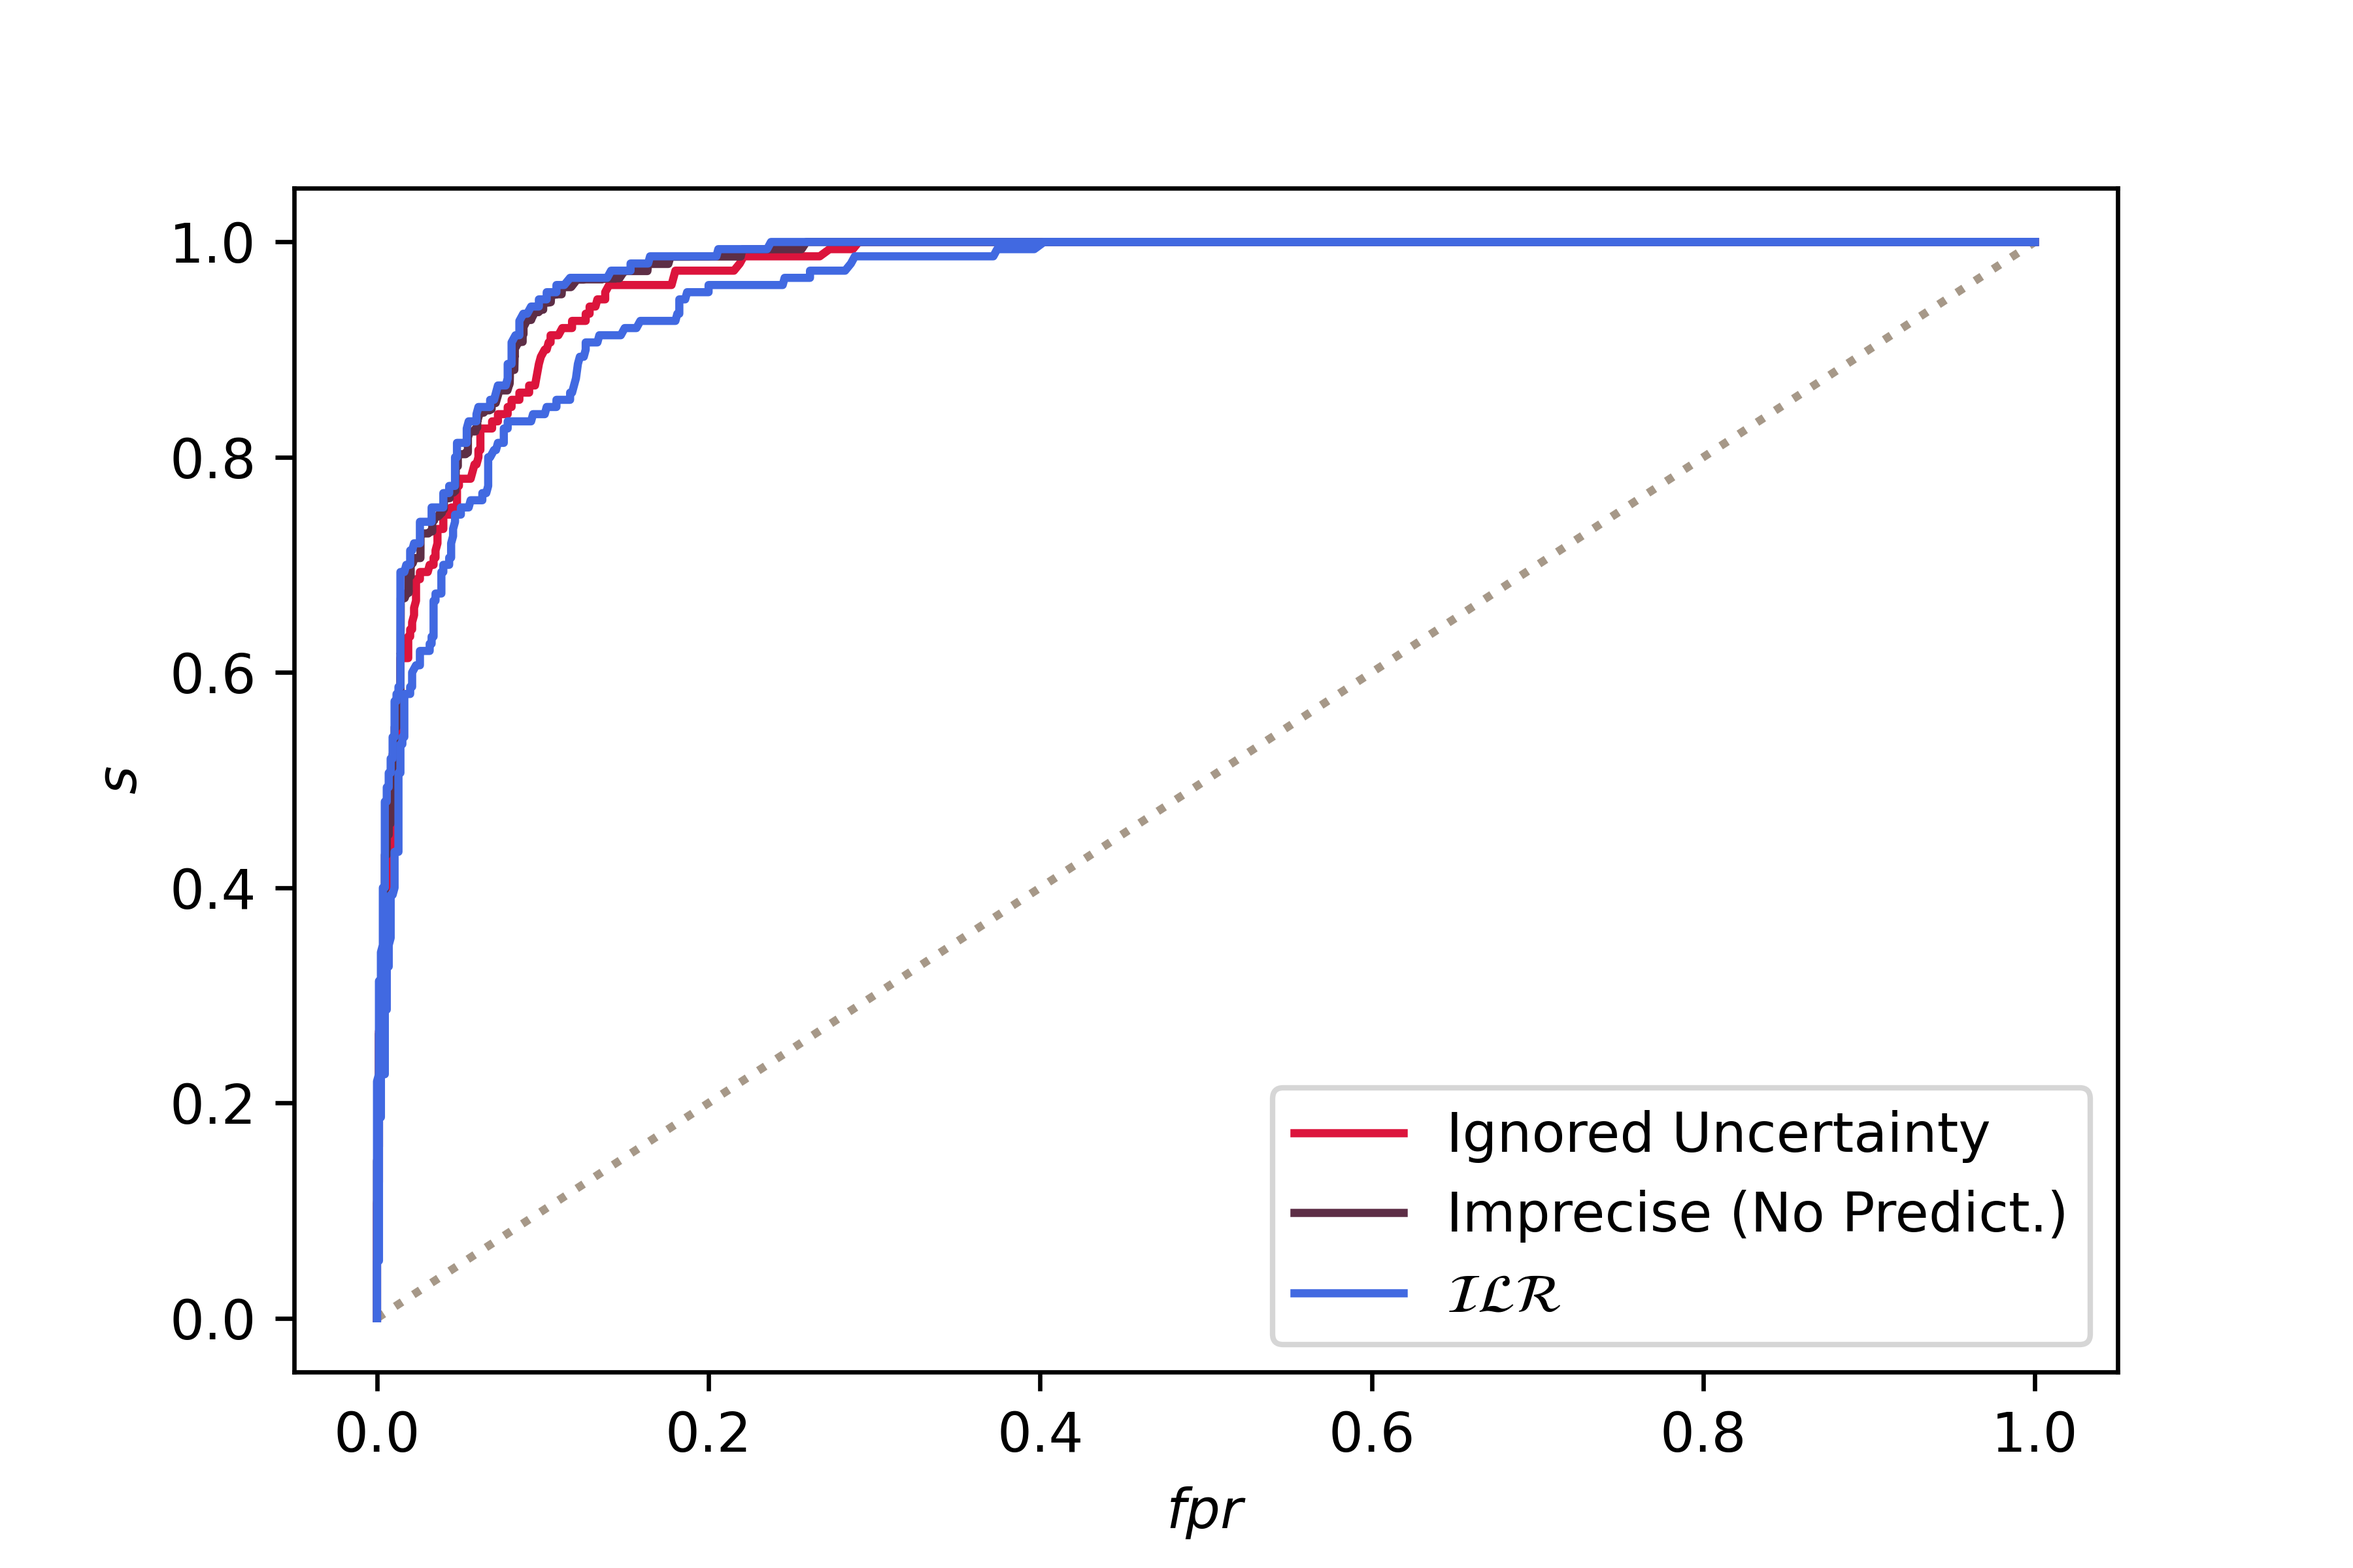
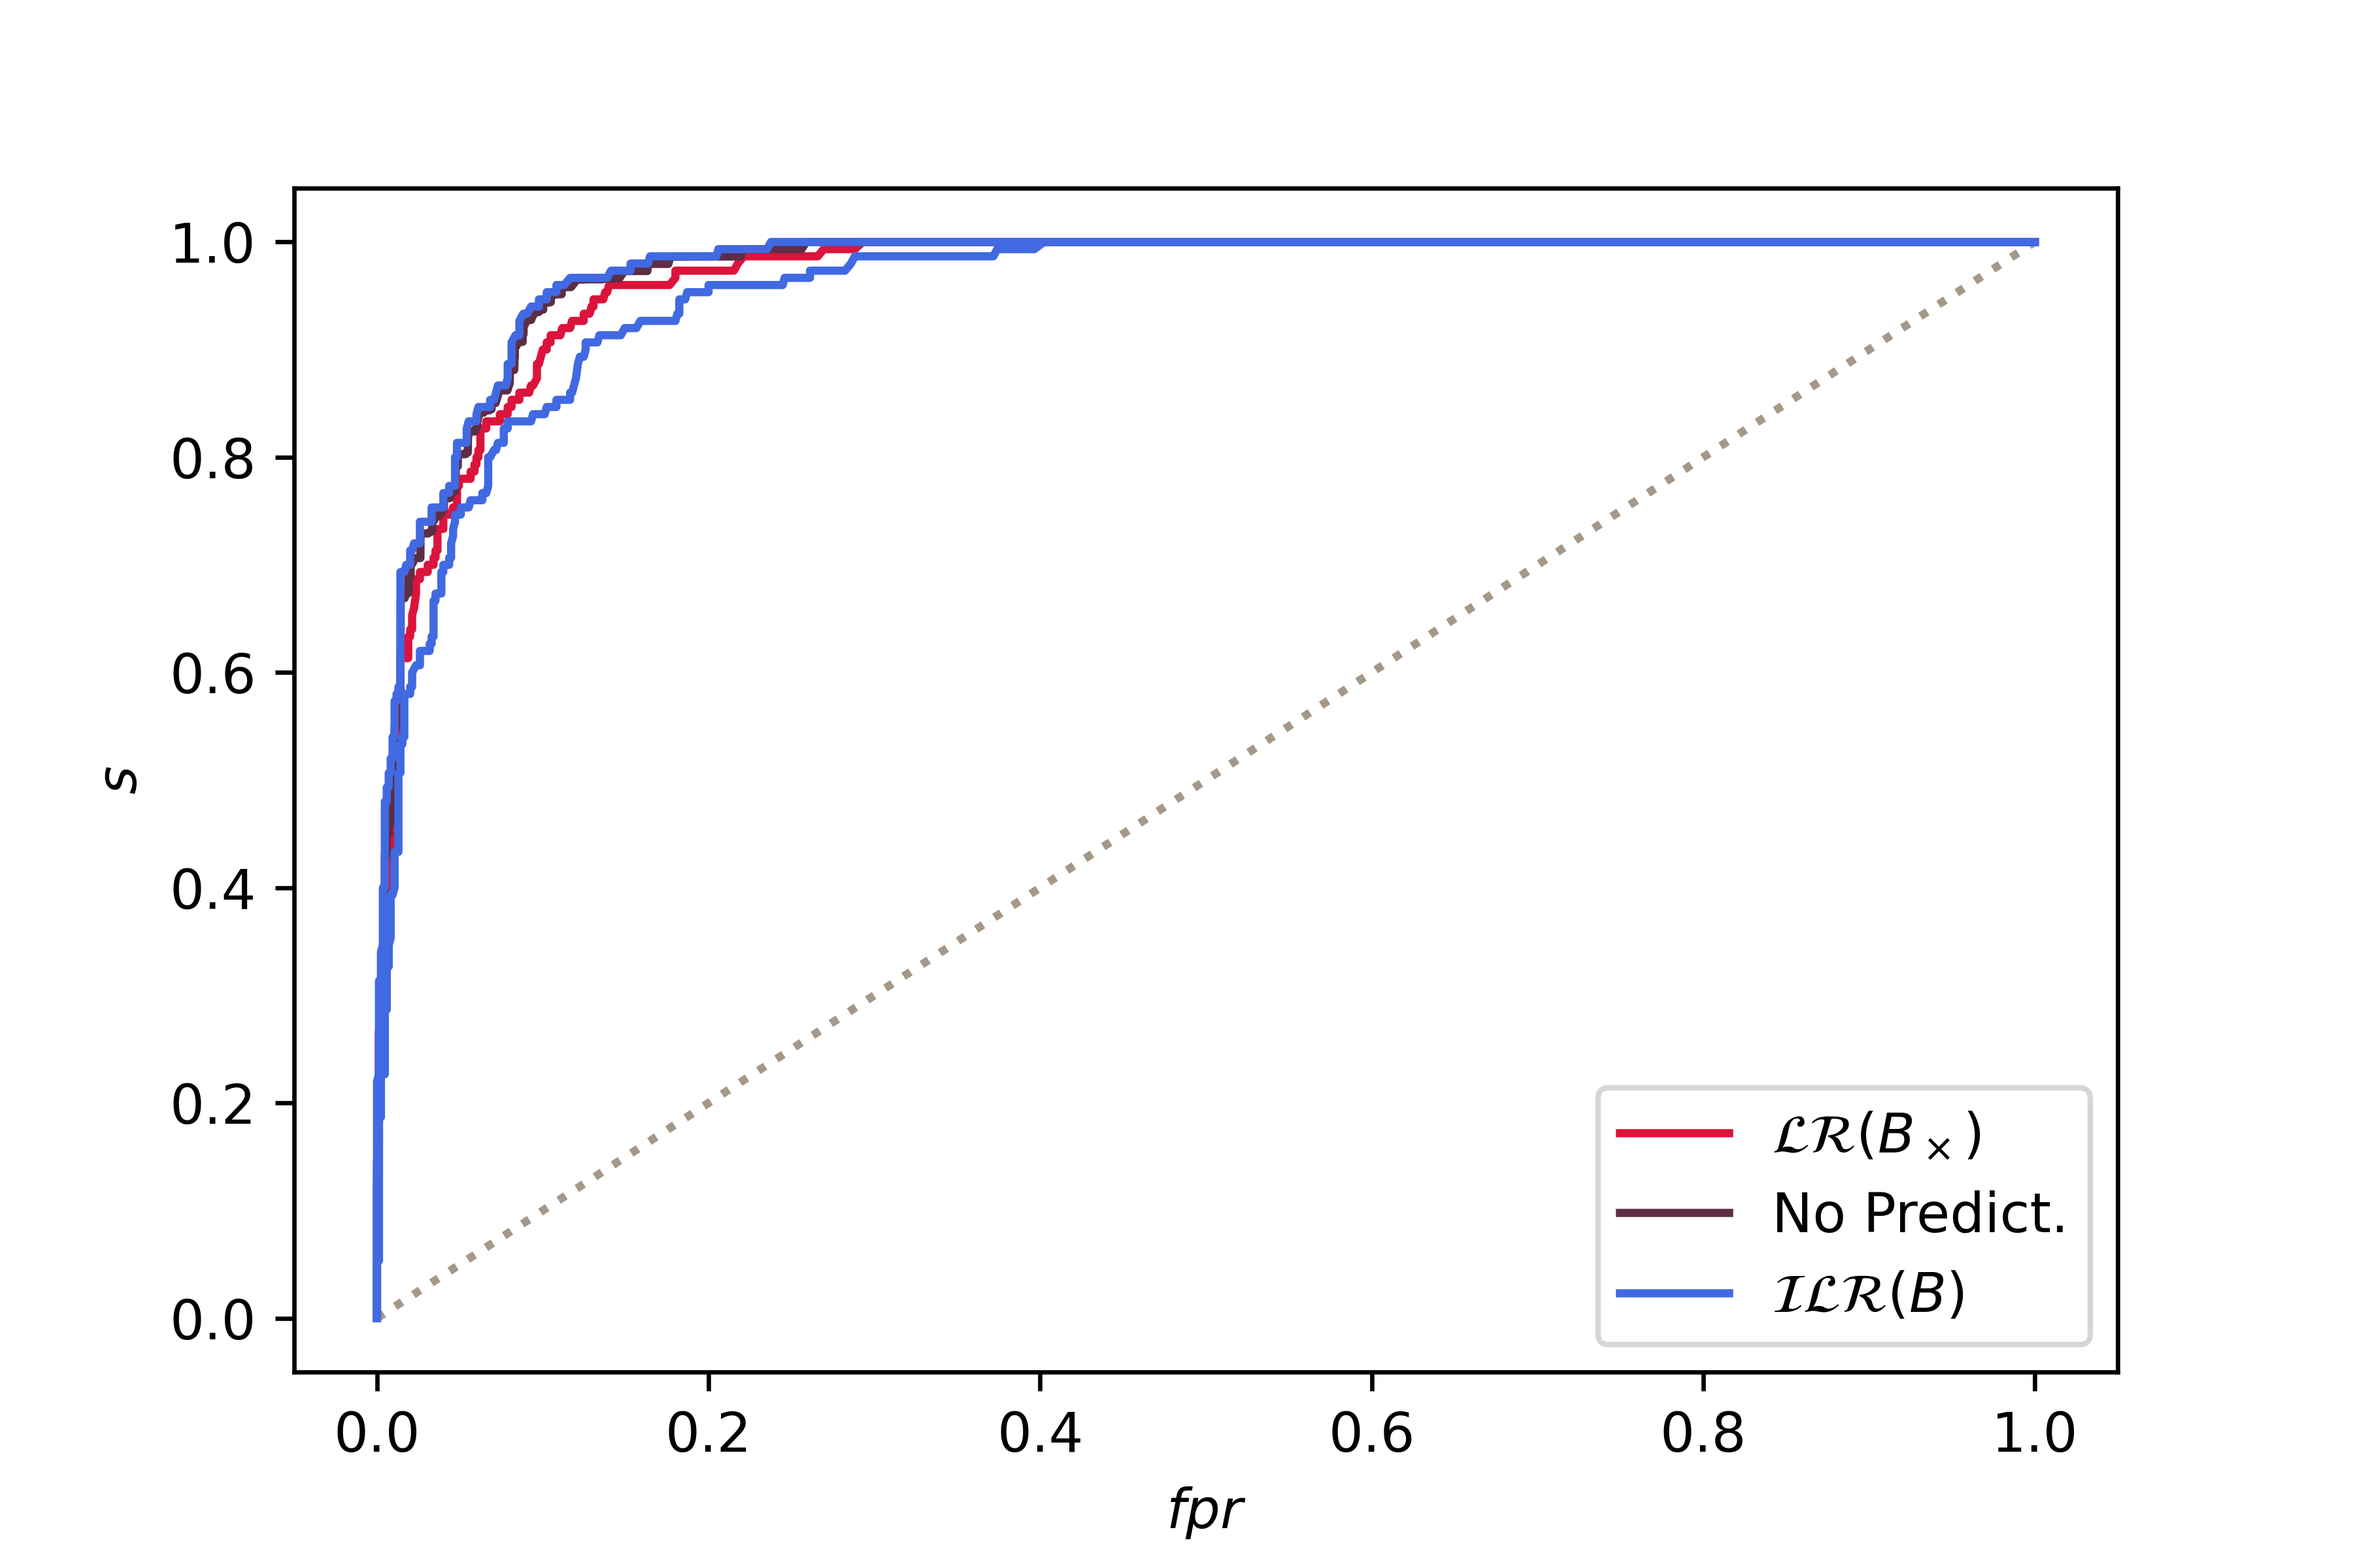
25MAY

Changed region(s): [[0.5289, 0.6875, 0.8711, 0.875]]

diff --git a/burn1000.py b/burn1000.py
@@ -203,8 +203,8 @@ axroc.plot([0,1],[0,1],linestyle = ':',color=col_points)
 
 axroc.set(xlabel = '$fpr$',ylabel='$s$')
 # axroc.plot(fpr,s,'k',label = 'Base')
-axroc.plot(nuq_fpr,nuq_s,color=col_mid,label='Ignored Uncertainty')
-axroc.plot(fpr_t,s_t,color=col_ilr2,label='Imprecise (No Predict.)')
+axroc.plot(nuq_fpr,nuq_s,color=col_mid,label='$\mathcal{LR}(B_\\times)$')
+axroc.plot(fpr_t,s_t,color=col_ilr2,label='No Predict.')
 
 
 xl = []
@@ -226,21 +226,26 @@ for i,j in zip(fpr_i,s_i):
 
 # axroc.plot(fpr_l,s_l,color=col_ilr2,label='Lower Bound')
 # axroc.plot(fpr_r,s_r,color=col_ilr3,label='Upper Bound')
-axroc.plot(xl,yu, col_ilr,label = '$\mathcal{ILR}$')
+axroc.plot(xl,yu, col_ilr,label = '$\mathcal{ILR}(B)$')
 axroc.plot(xu,yl, col_ilr )
 axroc.legend()
 rocfig.savefig('figs/burn1000_ROC.png',dpi = 600)
 rocfig.savefig('../LR-paper/figs/burn1000_ROC.png',dpi = 600)
+
+axroc.set_xlim([0,0.3])
+axroc.set_ylim([0.6,1])
+rocfig.savefig('figs/burn1000_ROC_zoom.png',dpi = 600)
+rocfig.savefig('../LR-paper/figs/burn1000_ROC_zoom.png',dpi = 600)
+
 densfig.savefig('figs/burn1000_dens.png',dpi =600)
 densfig.savefig('../LR-paper/figs/burn1000_dens.png',dpi =600)
 
-
+#%%
 with open('runinfo/burn1000_auc.out','w') as f:
     print('MIDPOINTS: %.4F' %auc(nuq_s,nuq_fpr),file = f)
-    print('NP: %.4f' %auc(s_t,fpr_t), file = f)
-    print('LB: %.4f' %auc(s_l,fpr_l), file = f)
-    print('UB: %.4f' %auc(s_r,fpr_r), file = f)
-
+    print('No Pred: %.4f' %auc(s_t,fpr_t), file = f)
+    print('ILR: [%.3f,%.3f]'  %(auc(yl,xu),auc(yu,xl)), file = f)
+#%%
     # print('INTERVALS: [%.3f,%.3f]' %(auc_int_min,auc_int_max), file = f)
     
 

diff --git a/biased_labels.py b/biased_labels.py
@@ -71,7 +71,7 @@ lYu = ilr.predict_proba(lX.reshape(-1,1))[:,1]
 
 plt.xlabel('$x$')
 plt.ylabel('$\pi(x)$')
-plt.plot(lX,lY,color=col_precise,zorder=10,lw=2,label = '$\mathcal{LR}(D)$') 
+# plt.plot(lX,lY,color=col_precise,zorder=10,lw=2,label = '$\mathcal{LR}(D)$') 
 plt.plot(lX,lYn,color=col_mid,zorder=10,lw=2,label = '$\mathcal{LR}(F_\\times)$') 
 plt.scatter(nuq_data,nuq_results,color=col_points,zorder=10)
 for i in uq_data_index:
